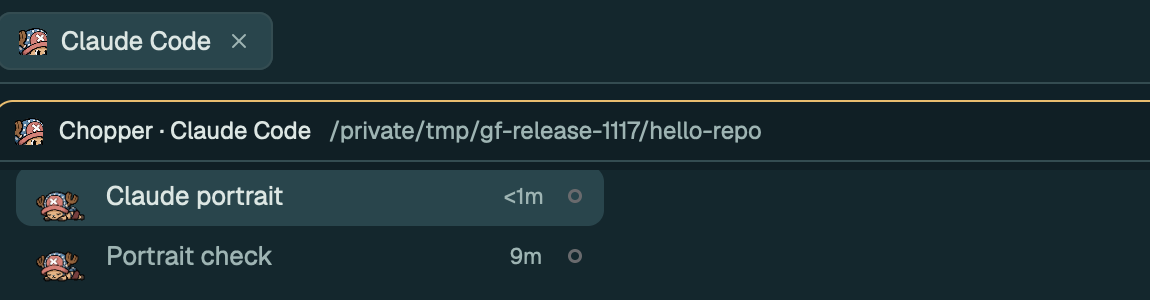
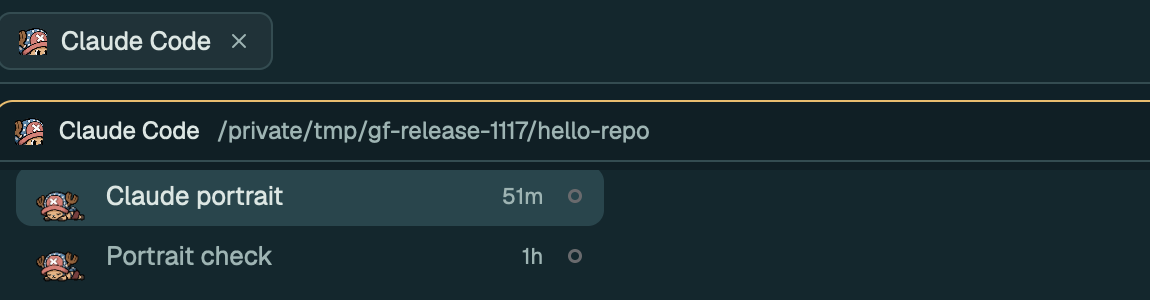
docs: keep the native pane title beside the crewmember portrait

Changed region(s): [[0.0609, 0.39, 0.6696, 0.48], [0.4261, 0.81, 0.487, 0.87], [0.4261, 0.63, 0.487, 0.69]]

diff --git a/docs/ACCEPTANCE.md b/docs/ACCEPTANCE.md
@@ -25,7 +25,7 @@ The isolated home ran Herdr App 0.1.16 with private Core 0.1.21 and disposable p
 | Live fleet menu | Opening the fleet menu and the ship picker as mod tabs rendered Rename, Choose ship and crew, Close, and all eight crews |
 | Live crew choice | A person right-clicked a generic fleet's ship, chose Choose ship and crew, and picked Whitebeard. The stored crew changed from Straw Hats to Whitebeard, and the sidebar showed the Moby Dick with a Whitebeard crewmate |
 | Separate host | The VPS `firstmate-hz`, added over SSH with `hc machine add` on its own session `gfvps1117`, ran a probe agent whose `gfvps/` Space showed Sunny and a Straw Hat crewmate because no captain was live |
-| Crewmember portraits | A probe agent's tab and pane title showed Chopper's face at 14 points, the pane title read "Chopper · release-probe", and its Agents row showed the sleeping animated Chopper in the icon slot with the native idle ring at the end |
+| Crewmember portraits | A probe agent's tab and pane title showed Chopper's face at 14 points, and its Agents row showed the sleeping animated Chopper in the icon slot with the native idle ring at the end |
 | Flag dialog | Opened as a mod tab with `tab.new --mod one-piece`, the dialog rendered eight crew cards with animated ships, standing lineups, and Flying now on the Straw Hats |
 | Separate host offline | Removing that machine kept the Straw Hat crew, and adding it back showed the same probe process and the same crew |
 

diff --git a/README.md b/README.md
@@ -214,11 +214,11 @@ Right-clicking a captain's character in Agents also offers **Raise a new flag…
 ## Read the crew
 
 Every agent wears its crewmember's face where you look for it.
-The tab and the pane title show a pixel portrait in place of the program icon, and the pane title names the crewmember.
+The tab and the pane title show a pixel portrait in place of the program icon.
 In Agents, the full animated crewmember takes the icon's place.
 
 <p align="center">
-  <img src="docs/images/crew-faces.png" width="575" alt="Chopper's face on a Claude Code tab and in the pane title Chopper · Claude Code, with sleeping Chopper sprites in two Agents rows">
+  <img src="docs/images/crew-faces.png" width="575" alt="Chopper's face on a Claude Code tab and in its Claude Code pane title, with sleeping Chopper sprites in two Agents rows">
 </p>
 
 <p align="center">
